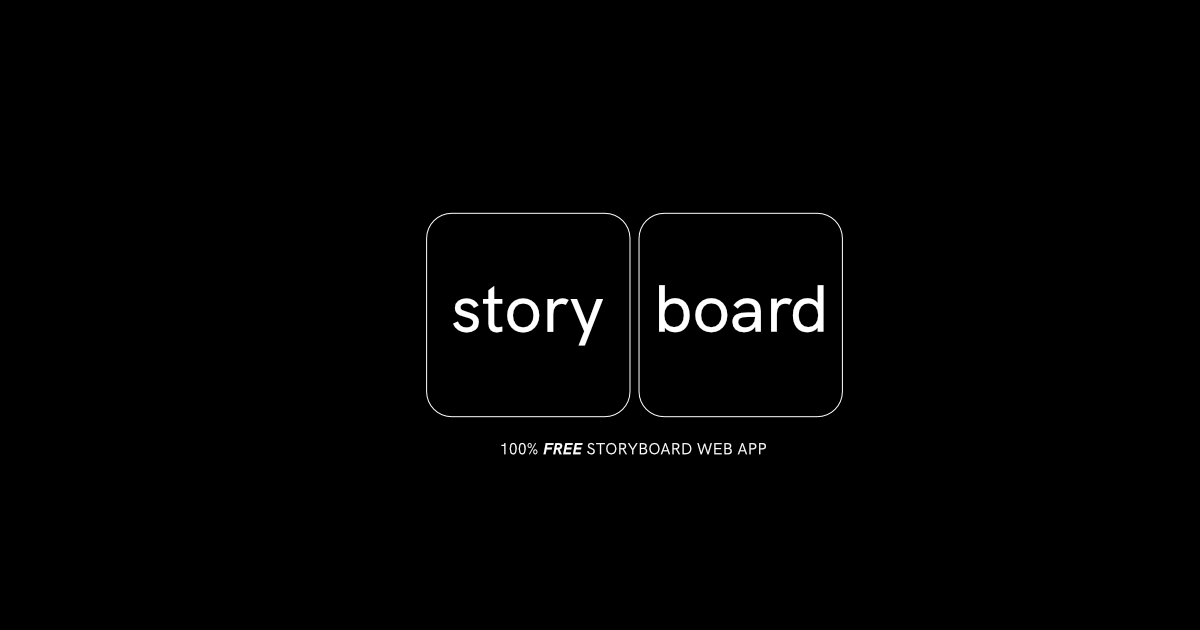
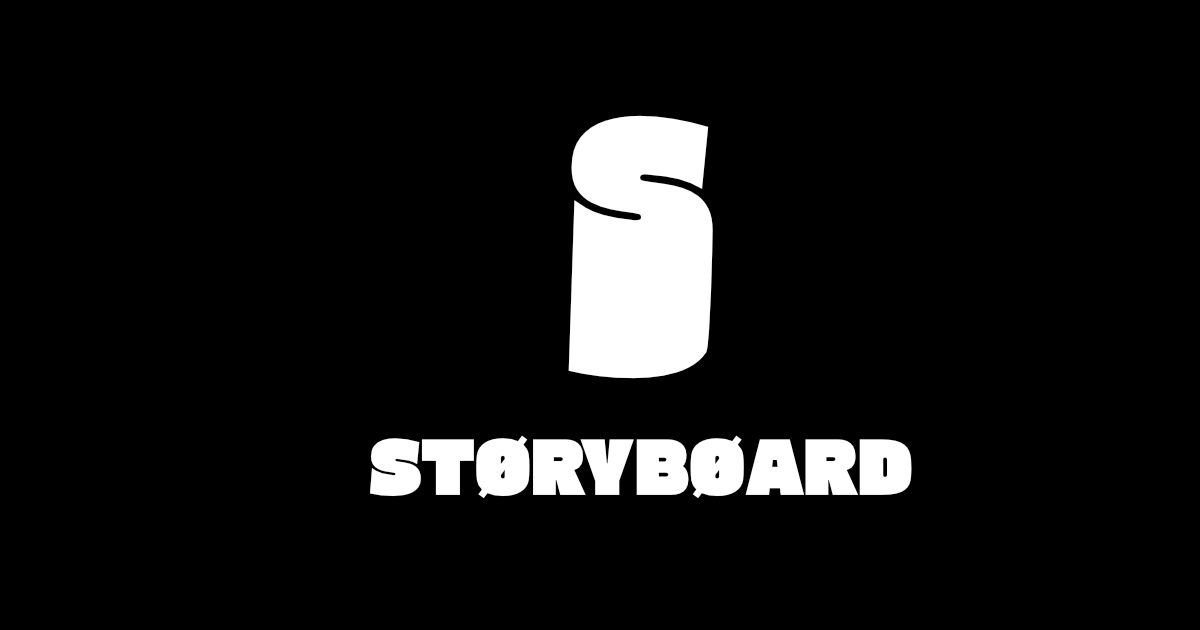
Update Open Graph image; show flag shortcuts in flag menu; bump to v0.9.2

diff --git a/index.html b/index.html
@@ -1377,7 +1377,7 @@
           <svg width="13" height="13" viewBox="0 0 16 16" fill="currentColor"><path d="M8 0C3.58 0 0 3.58 0 8c0 3.54 2.29 6.53 5.47 7.59.4.07.55-.17.55-.38 0-.19-.01-.82-.01-1.49-2.01.37-2.53-.49-2.69-.94-.09-.23-.48-.94-.82-1.13-.28-.15-.68-.52-.01-.53.63-.01 1.08.58 1.23.82.72 1.21 1.87.87 2.33.66.07-.52.28-.87.51-1.07-1.78-.2-3.64-.89-3.64-3.95 0-.87.31-1.59.82-2.15-.08-.2-.36-1.02.08-2.12 0 0 .67-.21 2.2.82.64-.18 1.32-.27 2-.27.68 0 1.36.09 2 .27 1.53-1.04 2.2-.82 2.2-.82.44 1.1.16 1.92.08 2.12.51.56.82 1.27.82 2.15 0 3.07-1.87 3.75-3.65 3.95.29.25.54.73.54 1.48 0 1.07-.01 1.93-.01 2.2 0 .21.15.46.55.38A8.013 8.013 0 0016 8c0-4.42-3.58-8-8-8z"/></svg>
           GitHub
         </span>
-        <span class="tb-version">v0.9.1</span>
+        <span class="tb-version">v0.9.2</span>
       </a>
     </div>
   </div>
@@ -1419,25 +1419,30 @@
           <svg width="13" height="13" fill="none" stroke="currentColor" stroke-width="1.5" viewBox="0 0 24 24"><path d="M4 22V4a1 1 0 011-1h13.5a.5.5 0 01.4.8L15 9l3.9 5.2a.5.5 0 01-.4.8H6a1 1 0 00-1 1v6"/></svg>
           All
         </button>
-        <button class="tb-btn" onclick="selectFlagFilter('none')">
+        <button class="tb-btn" onclick="selectFlagFilter('none')" title="Select shots and press 0 to clear their flag">
           <svg width="13" height="13" fill="none" stroke="currentColor" stroke-width="1.5" viewBox="0 0 24 24" style="opacity:0.35"><path d="M4 22V4a1 1 0 011-1h13.5a.5.5 0 01.4.8L15 9l3.9 5.2a.5.5 0 01-.4.8H6a1 1 0 00-1 1v6"/></svg>
           No Flag
+          <span class="tb-shortcut">0</span>
         </button>
-        <button class="tb-btn" onclick="selectFlagFilter('blue')">
+        <button class="tb-btn" onclick="selectFlagFilter('blue')" title="Select shots and press 1 to flag them In Progress">
           <svg width="13" height="13" fill="#3b82f6" stroke="#3b82f6" stroke-width="1.5" viewBox="0 0 24 24"><path d="M4 22V4a1 1 0 011-1h13.5a.5.5 0 01.4.8L15 9l3.9 5.2a.5.5 0 01-.4.8H6a1 1 0 00-1 1v6"/></svg>
           In Progress
+          <span class="tb-shortcut">1</span>
         </button>
-        <button class="tb-btn" onclick="selectFlagFilter('green')">
+        <button class="tb-btn" onclick="selectFlagFilter('green')" title="Select shots and press 2 to flag them Approved">
           <svg width="13" height="13" fill="#22c55e" stroke="#22c55e" stroke-width="1.5" viewBox="0 0 24 24"><path d="M4 22V4a1 1 0 011-1h13.5a.5.5 0 01.4.8L15 9l3.9 5.2a.5.5 0 01-.4.8H6a1 1 0 00-1 1v6"/></svg>
           Approved
+          <span class="tb-shortcut">2</span>
         </button>
-        <button class="tb-btn" onclick="selectFlagFilter('orange')">
+        <button class="tb-btn" onclick="selectFlagFilter('orange')" title="Select shots and press 3 to flag them Needs Revision">
           <svg width="13" height="13" fill="#f59e0b" stroke="#f59e0b" stroke-width="1.5" viewBox="0 0 24 24"><path d="M4 22V4a1 1 0 011-1h13.5a.5.5 0 01.4.8L15 9l3.9 5.2a.5.5 0 01-.4.8H6a1 1 0 00-1 1v6"/></svg>
           Needs Revision
+          <span class="tb-shortcut">3</span>
         </button>
-        <button class="tb-btn" onclick="selectFlagFilter('red')">
+        <button class="tb-btn" onclick="selectFlagFilter('red')" title="Select shots and press 4 to flag them Rejected">
           <svg width="13" height="13" fill="#ef4444" stroke="#ef4444" stroke-width="1.5" viewBox="0 0 24 24"><path d="M4 22V4a1 1 0 011-1h13.5a.5.5 0 01.4.8L15 9l3.9 5.2a.5.5 0 01-.4.8H6a1 1 0 00-1 1v6"/></svg>
           Rejected
+          <span class="tb-shortcut">4</span>
         </button>
       </div>
     </div>

diff --git a/CHANGELOG.md b/CHANGELOG.md
@@ -2,6 +2,12 @@
 
 All notable changes to Storyboard are documented here.
 
+## [0.9.2] - 2026-07-03
+
+### Changed
+- New Open Graph / social preview image.
+- The flag filter menu now shows the 0-4 keyboard shortcuts (select shots, then press 1/2/3/4 to flag them In Progress/Approved/Needs Revision/Rejected, or 0 to clear).
+
 ## [0.9.1] - 2026-07-03
 
 ### Fixed